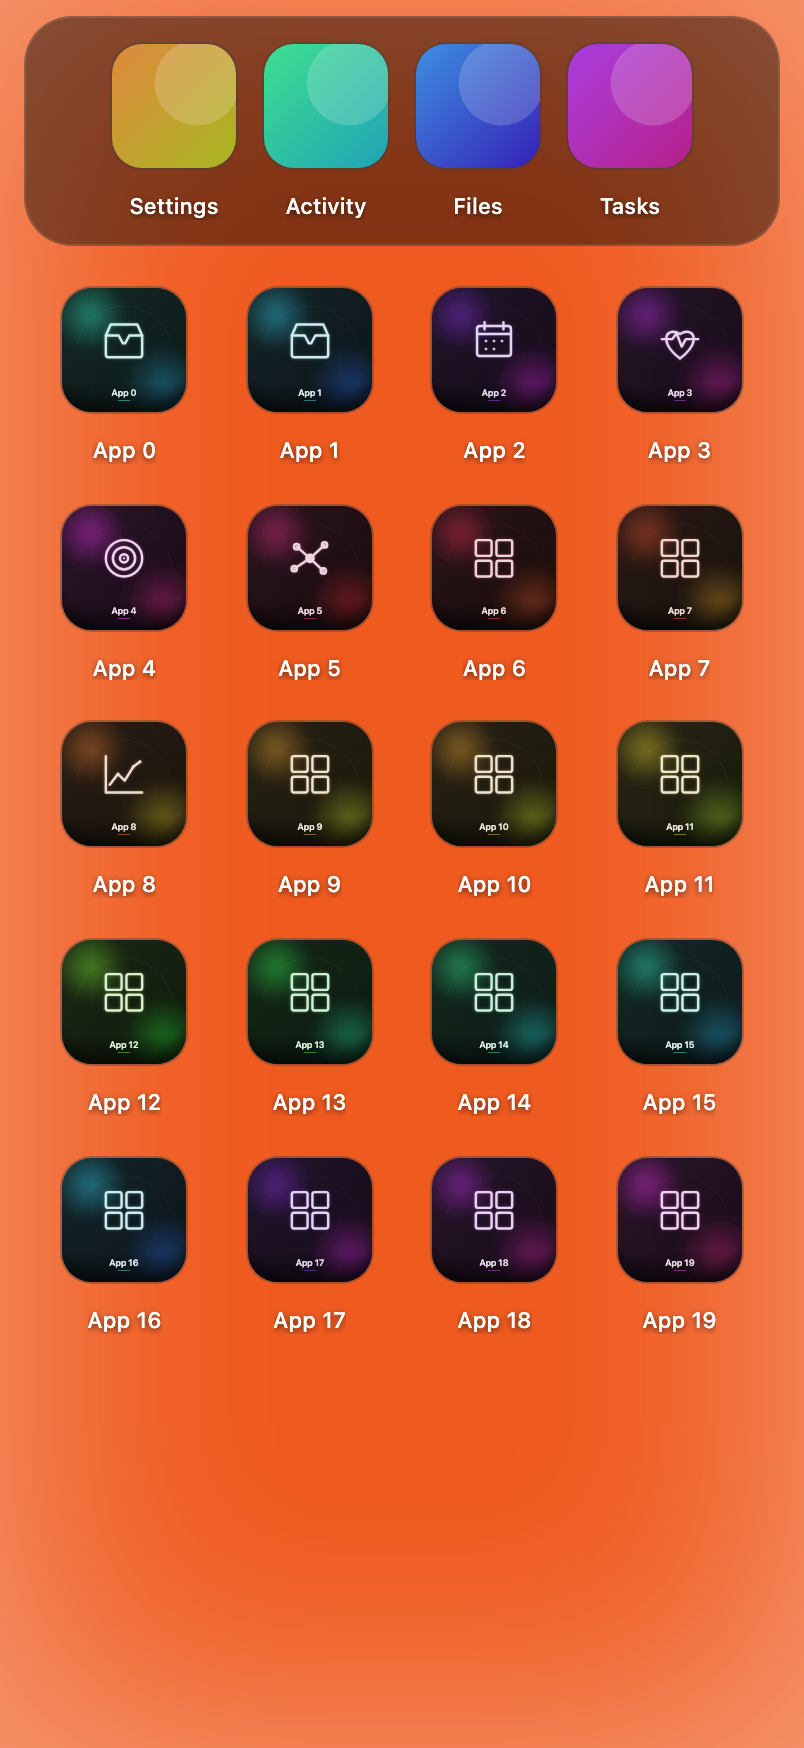
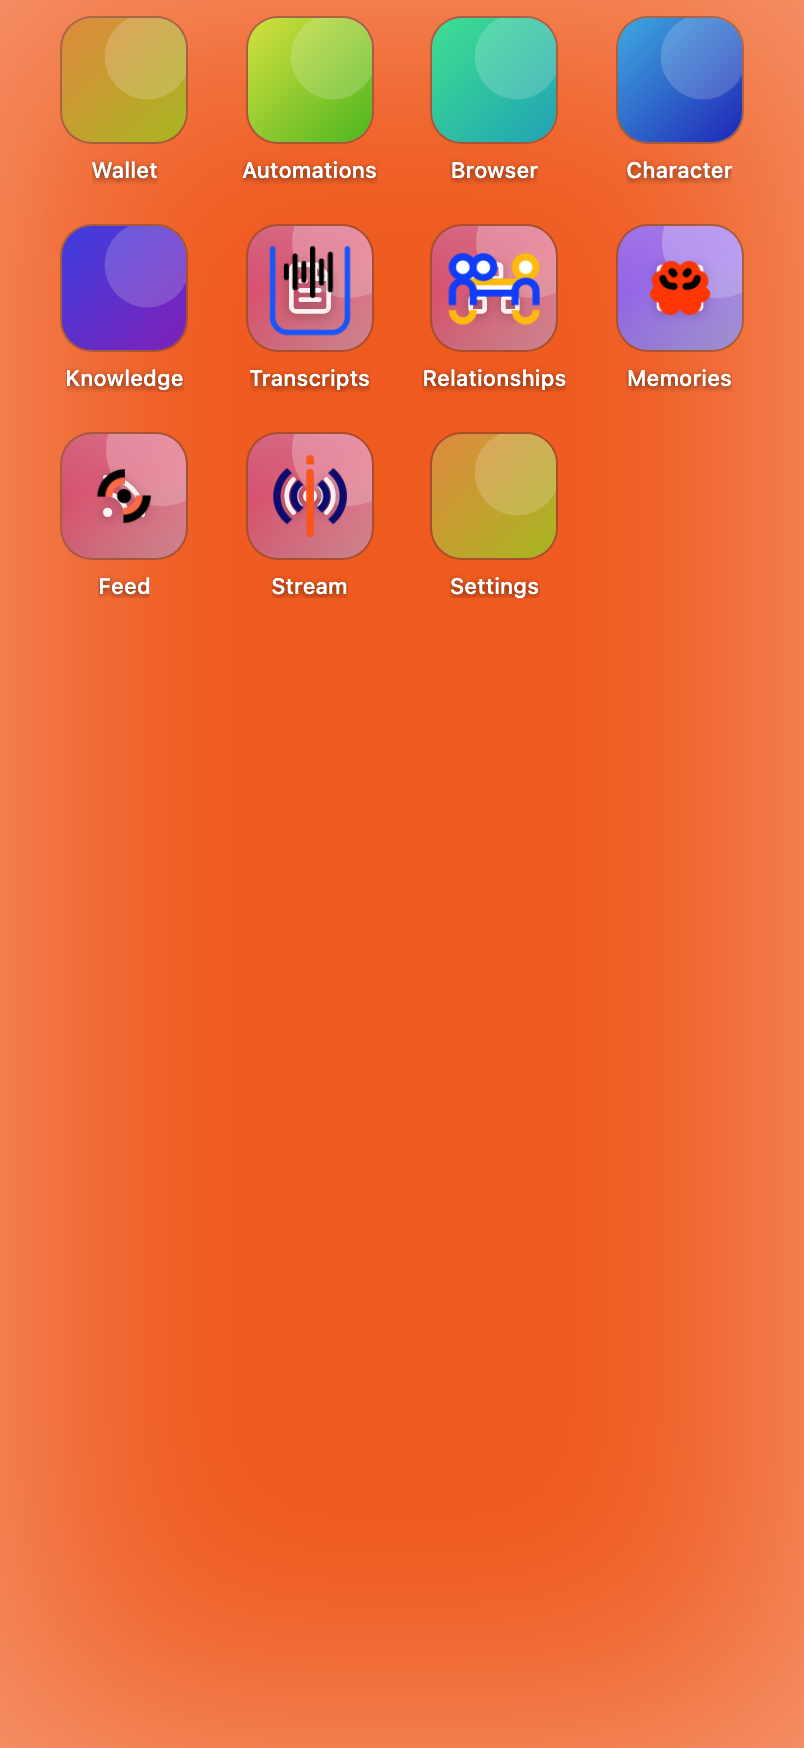
wip: update home-screen e2e for curated read-only launcher

diff --git a/packages/ui/src/components/shell/__e2e__/home-screen-fixture.views-stub.ts b/packages/ui/src/components/shell/__e2e__/home-screen-fixture.views-stub.ts
@@ -59,36 +59,42 @@ function heroDataUri(hue: number): string {
   return `data:image/svg+xml,${encodeURIComponent(svg)}`;
 }
 
-// A roster big enough to fill TWO launcher pages (page size 20). The four
-// dock favorites (settings/activity/files/tasks) pin to the dock; the rest pack
-// into the page grid, so the launcher has 2 pages — which is what makes the
-// doubled-dots regression observable (a single page never rendered inner dots),
-// and gives the icon-distinctness check real, varied glyphs to compare.
-const GRID_ICONS = [
-  "Inbox", "Mail", "CalendarDays", "Heart", "Target", "Network",
-  "Database", "Terminal", "Wallet", "ShoppingBag", "Rss", "Bot",
-  "BrainCircuit", "Monitor", "Radio", "ScrollText", "Globe", "Plug",
-  "Sparkles", "Phone", "Users", "ImageIcon",
-];
-
+// The curated launcher view set: page 1 is the everyday apps, page 2 is the
+// developer tools (trajectories/database/runtime/logs/skills/plugins). A few
+// carry real branded hero IMAGES so the tiles render <img> icons, proving the
+// launcher shows real image icons (not the glyph fallback). Duplicate/removed
+// registrations are included so the e2e proves curation drops + dedupes them.
 export function useRoutableViews() {
-  const gridViews = GRID_ICONS.map((icon, i) =>
-    builtinView(`app${i}`, `App ${i}`, `/apps/app${i}`, icon, true),
-  );
   return {
     views: [
-      // chat/views are filtered out of the launcher (self-links) — kept so
-      // the e2e can assert their ABSENCE.
+      // Shell surfaces + removed apps — kept so the e2e asserts their ABSENCE.
       builtinView("chat", "Chat", "/chat"),
       builtinView("views", "Views", "/views"),
-      // Dock favorites — real branded hero IMAGES (the agent serves these on
-      // device); rendered as <img> tiles, proving the launcher shows real
-      // image icons, not the glyph fallback (task: real image icons).
+      builtinView("shopify", "Shopify", "/shopify", "ShoppingBag", true),
+      builtinView("hyperliquid", "Hyperliquid", "/hyperliquid", "TrendingUp", true),
+      // Page 1 — everyday apps (curated order is enforced by launcher-curation).
+      builtinView("wallet", "Wallet", "/wallet", "Wallet", true, heroDataUri(28)),
+      // Duplicate wallet registration — must collapse to the single Wallet tile.
+      builtinView("inventory", "Wallet", "/wallet", "Wallet"),
+      builtinView("automations", "Automations", "/automations", "Clock3", true, heroDataUri(64)),
+      // Duplicate automations registration — folds into the one Automations tile.
+      builtinView("triggers", "Automations", "/automations", "Clock3"),
+      builtinView("browser", "Browser", "/browser", "Globe", true, heroDataUri(150)),
+      builtinView("character", "Character", "/character", "Bot", true, heroDataUri(200)),
+      builtinView("documents", "Knowledge", "/character/documents", "FileText", true, heroDataUri(240)),
+      builtinView("transcripts", "Transcripts", "/apps/transcripts", "AudioLines", true),
+      builtinView("relationships", "Relationships", "/apps/relationships", "Network", true),
+      builtinView("memories", "Memories", "/apps/memories", "Brain", true),
+      builtinView("feed", "Feed", "/feed", "Rss", true),
+      builtinView("stream", "Stream", "/stream", "Radio", true),
       builtinView("settings", "Settings", "/settings", "Settings", false, heroDataUri(28)),
-      builtinView("activity", "Activity", "/activity", "Activity", true, heroDataUri(150)),
-      builtinView("files", "Files", "/apps/files", "FolderClosed", false, heroDataUri(210)),
-      builtinView("tasks", "Tasks", "/apps/tasks", "ListTodo", false, heroDataUri(280)),
-      ...gridViews,
+      // Page 2 — developer tools.
+      builtinView("trajectories", "Trajectories", "/apps/trajectories", "Activity", true, heroDataUri(300)),
+      builtinView("database", "Databases", "/apps/database", "Database", true),
+      builtinView("runtime", "Runtime", "/apps/runtime", "Terminal", false),
+      builtinView("logs", "Logs", "/apps/logs", "ScrollText", true),
+      builtinView("skills", "Skills", "/apps/skills", "Sparkles", false),
+      builtinView("plugins", "Plugins", "/apps/plugins", "Plug", true),
     ],
     loading: false,
     error: null,

diff --git a/packages/ui/src/components/shell/__e2e__/home-screen-fixture.api-stub.ts b/packages/ui/src/components/shell/__e2e__/home-screen-fixture.api-stub.ts
@@ -35,4 +35,9 @@ export const client = {
   getOrchestratorAccounts: async () => ({ accounts: [] }),
   getOrchestratorRooms: async () => ({ rooms: [] }),
   listAccounts: async () => ({ accounts: [] }),
+  // Unified-tasks home widget (useUnifiedTasks) — empty so it self-hides. These
+  // prototype methods are bare side-effect patches in production, dropped from
+  // this esbuild bundle, so stub them here explicitly.
+  listAutomations: async () => ({ automations: [] }),
+  listScheduledTasks: async () => ({ tasks: [] }),
 };